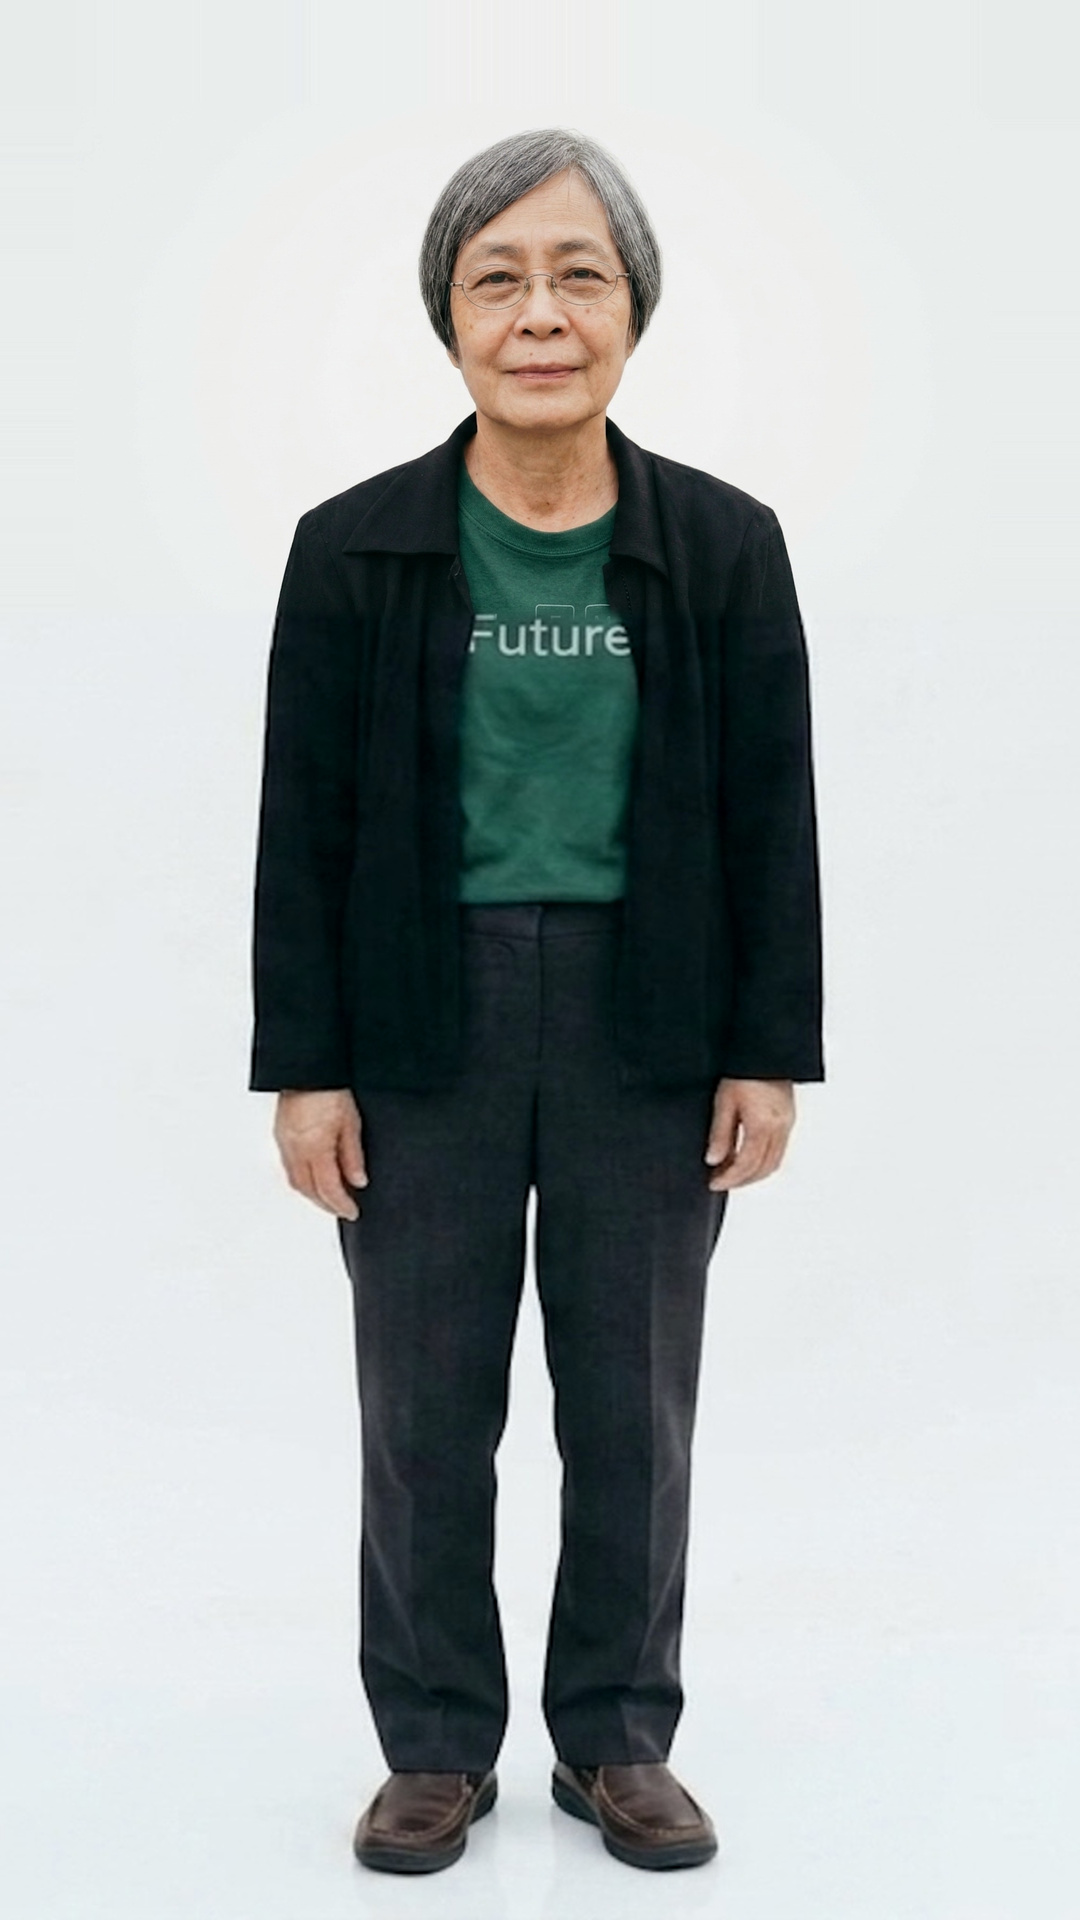
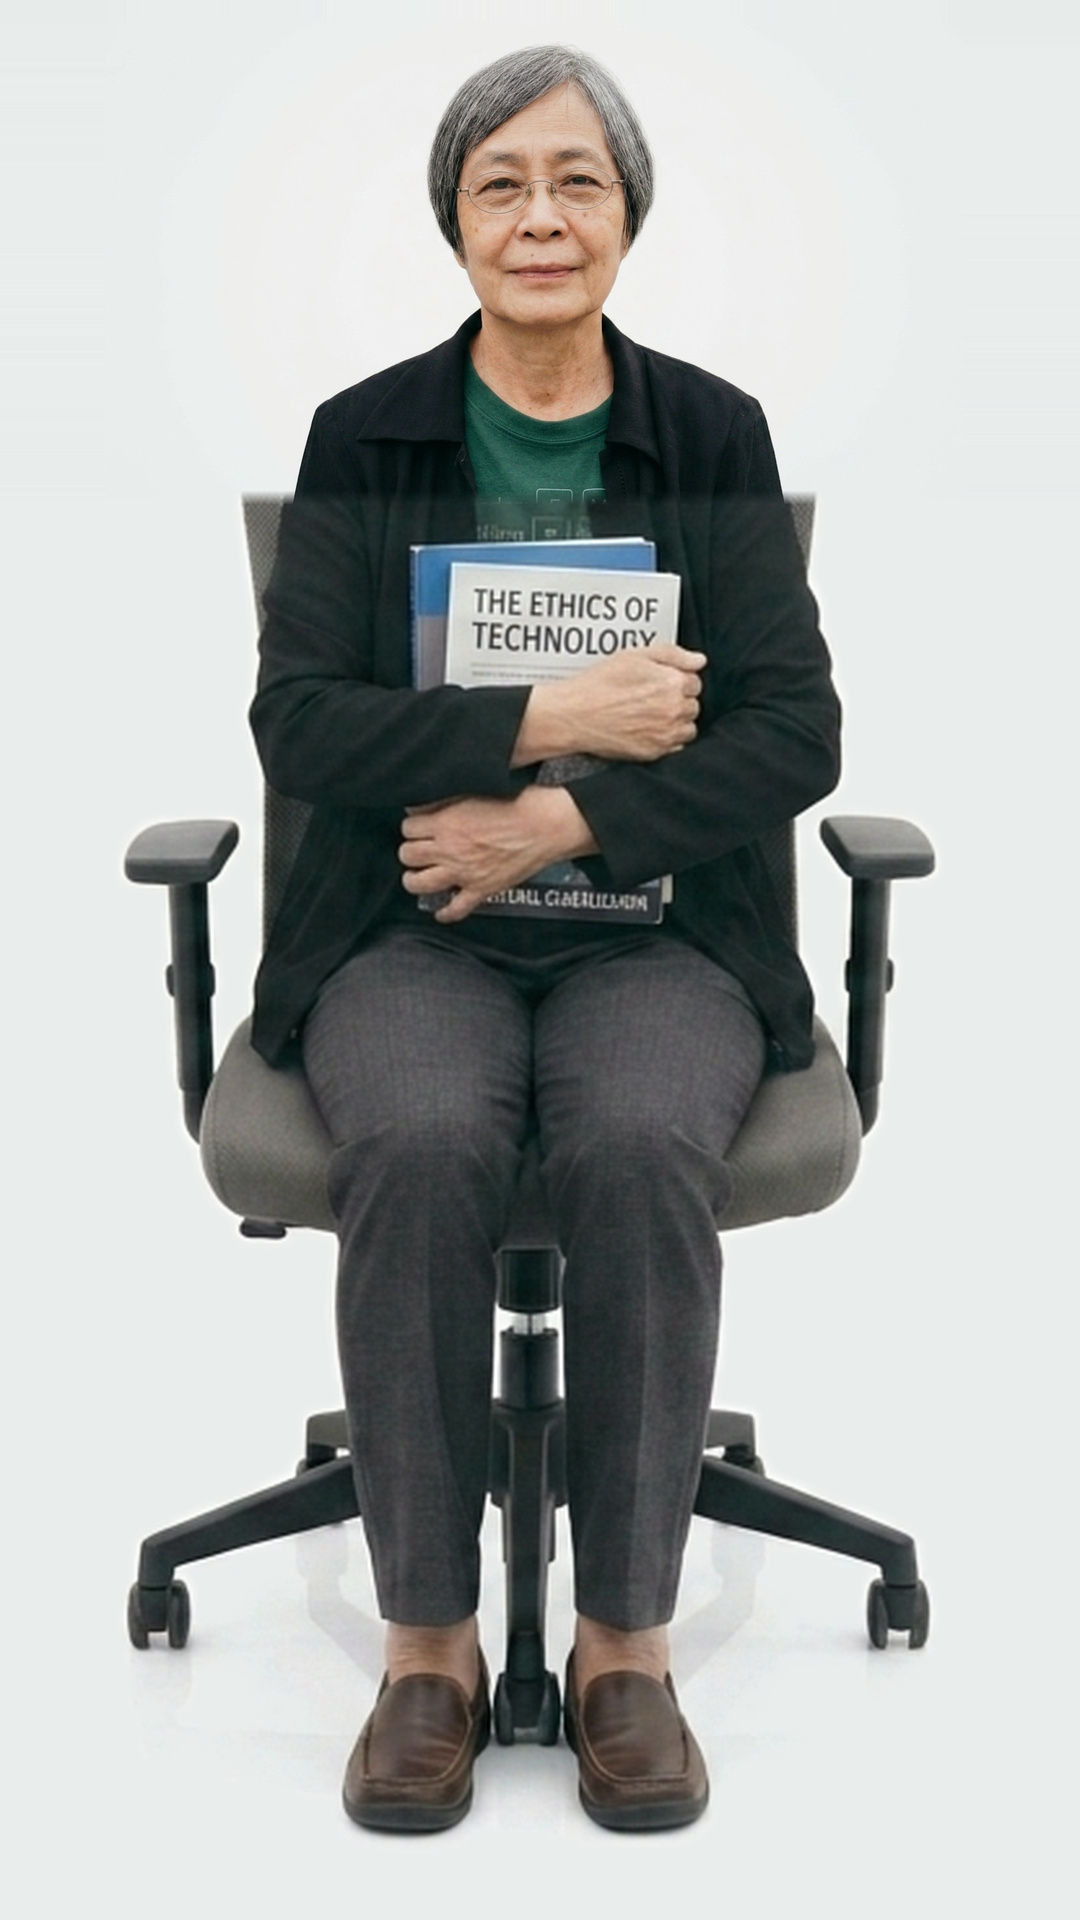
feat(live): 舞台底圖改成坐姿抱書
底圖從站姿換成坐在辦公椅上、抱著書的版本。頭部座標與整組幾何跟著重算：
頭頂 y=44、下巴 y=306、頭中心 x=541、頭高 262
→ STAGE_BOX 9.44% / 0.94% / 80.04% / 25.32%，遮罩 87%→97%（底圖 y=441~490）。

坐姿帶進兩個站姿沒有的限制：

🔴 椅背不能高過接縫。串流自己帶著一整片不透明背景，覆蓋到哪就把底圖蓋掉，
椅背伸進影片框上半截就會被抹掉，變成椅子從胸口才長出來。現在是讓照片層
鋪滿整個影片框寬度、順手蓋掉原圖那截高椅背，看起來像中背椅。

🔴 接縫的可用窗口只剩衣領到書本之間（底圖 y≈320~535）。她抱著書、手臂橫在
胸前，而真實照片那張是雙手下垂、胸口只有綠 T 恤跟敞開的外套，書本那一帶
兩者完全對不起來。所以可動範圍從「腰部以上」縮到「胸口以上」。

另外坐姿原圖的背景不是平的（上緣 234,239,240、接縫附近已亮到 245,246,245），
直接用會在接縫處出現一條 12 階的橫向色帶。底圖改成逐列取左右緣當基準算出
前景遮罩，再把背景整片壓成串流的 rgb(233,237,236)，前景一個像素沒動。

⚠ 她抱的那兩本書是 AI 生成的道具（封面寫 THE ETHICS OF TECHNOLOGY），
不是她的書也不是她的領域。

Changed region(s): [[0.0917, 0.0, 0.8861, 1.0]]

diff --git a/components/avatar/full-body-stage.tsx b/components/avatar/full-body-stage.tsx
@@ -1,7 +1,7 @@
 import type { ReactNode } from "react";
 
 /**
- * 全身舞台：底層鋪一張她站著的全身照，串流疊在上半身的位置上。
+ * 全身舞台：底層鋪一張她坐著的全身照，串流疊在頭部與胸口的位置上。
  *
  * 為什麼要這樣做：LiveAvatar **不收全身照**（上傳驗證直接退件，訊息就是
  * 「Full-body shot provided / Face is not centered」），所以串流永遠只有頭肩。
@@ -9,12 +9,15 @@ import type { ReactNode } from "react";
  * 上傳給 HeyGen 的是頭肩照，畫面上合成出全身。
  *
  * 🔴 代價，改動前先讀完：
- * 1. **腰部以下不會動。** 只有串流覆蓋的那一段是即時影像，再往下是靜態照片。
- *    這是這個做法的本質，不是可以調參數修掉的 bug。
- * 2. **底圖 avatar-fullbody.jpg 的下半身是 AI 生成的。** 影片框底邊（底圖
- *    y=621，大約在腹部）以上是真實攝影，以下的長褲與鞋子是模型畫出來的。
- *    她本人還在世，這件事主辦單位必須知情——浮水印（VideoAvatar 裡那條
- *    「AI 生成影像」）因此比原本更不能拿掉。
+ * 1. **胸口以下不會動。** 只有串流覆蓋的那一段是即時影像，再往下是靜態照片。
+ *    坐姿比站姿的可動範圍更小——她抱著書，手臂就在下巴底下不遠處，
+ *    接縫只能塞在衣領到書本之間那一段。這是姿勢決定的，不是參數問題。
+ * 2. **底圖 avatar-fullbody.jpg 的胸口以下全部是 AI 生成的。** 影片框底邊
+ *    （底圖 y=504，大約在胸口）以上是真實攝影，以下的手臂、椅子、長褲、鞋子
+ *    都是模型畫出來的，**連她抱著的那兩本書也是**（封面寫「THE ETHICS OF
+ *    TECHNOLOGY」，那不是她的書、也不是她的領域）。她本人還在世，這件事
+ *    主辦單位必須知情——浮水印（VideoAvatar 裡那條「AI 生成影像」）因此
+ *    比原本更不能拿掉。
  * 3. **對位是量出來的。** 下面的數字全部相依於「現在這一隻 avatar 的串流長
  *    什麼樣」。換 avatar 就要照下面的方法重量一次。
  */
@@ -26,7 +29,7 @@ export const FULL_BODY_SRC = "/avatar-fullbody.jpg";
  * 串流（與串流接上前的 poster）在舞台框裡的位置，單位是舞台框的百分比。
  *
  * 底圖的頭部座標是這一切的基準（1080×1920）：
- *   頭頂 y=128、下巴 y=409、頭中心 x=540 → 頭高 281、臉中心 y=268.5
+ *   頭頂 y=44、下巴 y=306、頭中心 x=541 → 頭高 262、臉中心 y=175
  *
  * 🔴 這四個數字是**實測串流本身**量出來的，不是照上傳照片推的。
  * 第一版照「臉置中、頭高佔 45%」推，實際接上去整顆頭高了 83px——
@@ -48,15 +51,20 @@ export const FULL_BODY_SRC = "/avatar-fullbody.jpg";
  * y=500~615 每一列的外套輪廓只差 1~2px。換 avatar 後如果這個前提不成立，
  * 要拆成兩組，否則串流接上的瞬間身體會跳。
  *
- * ⚠ 影片框比舞台**窄**（左右邊落在底圖 x=70 與 x=996），而她的外套只到
- * x=275~801，所以那兩條垂直邊整條都壓在背景上。能這樣是因為三張圖的背景色
- * 都對齊了（見 BACKGROUND）；沒對色的話那兩條邊會變成看得見的直線。
+ * ⚠ 影片框比舞台**窄**（左右邊落在底圖 x=102 與 x=966），而她連椅子最寬
+ * 也只到 x=236~819，所以那兩條垂直邊整條都壓在背景上。能這樣是因為三張圖的
+ * 背景色都對齊了（見 BACKGROUND）；沒對色的話那兩條邊會變成看得見的直線。
+ *
+ * 🔴 **椅背不能高過接縫。** 串流自己帶著一整片不透明的背景，覆蓋到哪裡就把
+ * 底圖那裡蓋掉——椅背只要伸進影片框，上半截就會被抹掉，變成椅子從她胸口
+ * 才長出來。這一版是把照片層鋪滿整個影片框寬度，順手把原圖那截高椅背
+ * 一起蓋掉，看起來像張中背椅；換成更高的椅背或加了背景物件就會破功。
  */
 export const STAGE_BOX = {
-  left: "6.47%",
-  top: "5.23%",
-  width: "85.73%",
-  height: "27.13%",
+  left: "9.44%",
+  top: "0.94%",
+  width: "80.04%",
+  height: "25.32%",
 } as const;
 
 /**
@@ -64,10 +72,14 @@ export const STAGE_BOX = {
  * （換算回底圖 ＝ y=558 開始、y=606 淡完）。
  *
  * 🔴 這一段跟底圖 avatar-fullbody.jpg 是**一組的**，不能只改一邊。
- * 底圖的組成是：真實照片層（原始 avatar-poster.jpg 依上面的幾何縮放後貼入，
- * 底邊落在 y=621 ＝ 影片框底邊）實心到 y=606，606→621 羽化，
- * 之後才是 AI 生成的下半身。所以影片必須在 y=606 之前淡完——
+ * 底圖的組成是：真實照片層（avatar-poster-stage.jpg 縮成 860×484 貼在
+ * (104,20)，底邊落在 y=505 ＝ 影片框底邊）實心到 y=490，490→505 羽化，
+ * 之後才是 AI 生成的坐姿。所以影片必須在 y=490 之前淡完——
  * 淡出的那一段底下是同一張照片，接縫才藏得住。
+ *
+ * 🔴 淡出區的下限是**書本的上緣（底圖 y=535）**。她抱著書，手臂橫在胸前，
+ * 而真實照片那張是雙手自然下垂、胸口只有綠 T 恤跟敞開的外套——兩者在書本
+ * 那一帶完全對不起來。接縫必須落在衣領與書本之間那 200px 左右的窗口裡。
  *
  * ⚠ 照片層的左、右、上三邊是用 `-virtual-pixel Edge` 往外延伸鋪滿整個
  * 1080 寬、一路到 y=0，**不是**直接貼一塊 922×519。三邊留硬邊的版本實測
@@ -75,15 +87,11 @@ export const STAGE_BOX = {
  * 延伸之後整張圖 y=300 那一列從 x=40 到 x=1030 都是 rgb(233,237,236)，
  * 跟串流一致，只剩下緣一條接縫要處理。
  *
- * ⚠ AI 那個身體比真實照片**窄約 7.5%**，直接接會在腰側留一道階梯。
- * 底圖裡的 AI 層已經先做過水平校正（`-resize 1161x1920! -crop 1080x1920+47+0`），
- * 校正後 y=560~615 每一列的輪廓差 1~2px。重做底圖時這一步不能漏。
- *
- * ⚠ 起點也有下限：下巴在影片框的 59.2%。再往上就會淡到下巴，
+ * ⚠ 起點也有上限：下巴在影片框的 59.2%。再往上就會淡到下巴，
  * 看起來像頭浮在半空中。
  */
 export const STAGE_MASK =
-  "linear-gradient(to bottom, #000 0%, #000 88%, transparent 97%)";
+  "linear-gradient(to bottom, #000 0%, #000 87%, transparent 97%)";
 
 /**
  * 背景色：串流實測是 rgb(233,237,236)。
@@ -91,6 +99,12 @@ export const STAGE_MASK =
  * 🔴 avatar-fullbody.jpg 與 avatar-poster-stage.jpg 的背景都已經**先在檔案裡**
  * 調成這個值。不對色的話，影片框那三條邊會在畫面上浮出一個長方形——
  * 實測差 7 個階就夠明顯了。換 avatar 後背景色若變了，兩張圖都要重調。
+ *
+ * ⚠ 坐姿那張原圖的背景**不是平的**：上緣角落約 (234,239,240)、接縫附近
+ * 已經亮到 (245,246,245)。直接用會在接縫處出現一條 12 階的橫向色帶。
+ * 現在的底圖是逐列取左右緣當基準做出前景遮罩，再把背景整片壓成
+ * (233,237,236)，前景一個像素都沒動。整張圖從 y=200 到 y=1880、
+ * 從 x=60 到 x=1020 量到的背景都是這個值。
  * ⚠ ImageMagick 的 `-evaluate subtract` 吃 quantum 值，寫 `7` 等於 7/65535
  * 幾乎沒動，要用百分比。
  */
